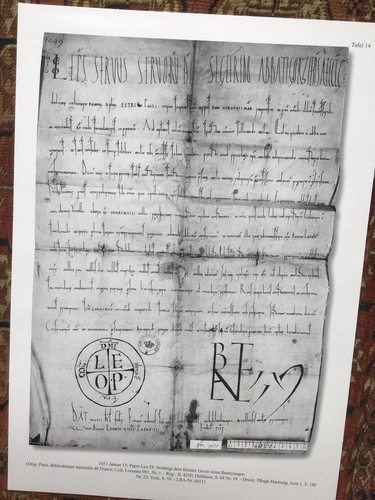
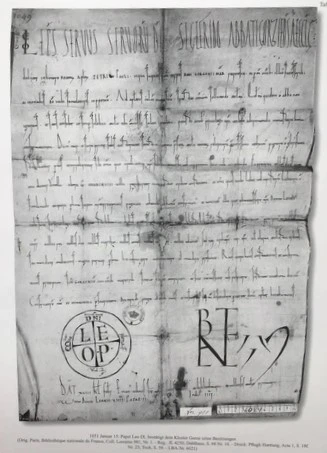
update
update papst urkunden bilder
added text container

diff --git a/familiengeschichte.html b/familiengeschichte.html
@@ -95,6 +95,8 @@
           <div>
             <h2>Familiengeschichte: Paeskens - Peuskens - Peusquens</h2>
 
+            <div class="textContainer"></div>
+
             <div class="linkContainer">
               <a
                 href="./data/familiengeschichte/1-Familiengeschichte/Familiengeschichte Paeskens 1500-1600.pdf"
@@ -120,6 +122,8 @@
         <div class="sectionContainer">
           <div>
             <h2>FML Hubert von Peusquens</h2>
+
+            <div class="textContainer"></div>
 
             <div class="linkContainer">
               <a
@@ -168,6 +172,8 @@
           <div>
             <h2>Genealogie Familienblaetter</h2>
 
+            <div class="textContainer"></div>
+
             <div class="linkContainer">
               <a
                 href="./data/familiengeschichte/3-Genealogie-Familientafel/a Genealogie Peuskens Peusquens  Familienblätter PK PQ.pdf"
@@ -189,6 +195,12 @@
                 target="_blank"
                 >Berichtigungen und Erganzungen</a
               >
+              <a href="./familientafel/poeschkens.html" target="_blank"
+                >Familientafel Poeschkens</a
+              >
+              <a href="./familientafel/peusquens.html" target="_blank"
+                >Familientafel Peusquens</a
+              >
             </div>
           </div>
         </div>
@@ -198,6 +210,8 @@
         <div class="sectionContainer">
           <div>
             <h2>Ursprungsort der Familie - Heerlen Niederlande</h2>
+
+            <div class="textContainer"></div>
 
             <div class="linkContainer">
               <a
@@ -235,6 +249,8 @@
         <div class="sectionContainer">
           <div>
             <h2>Schallenberg Köln Peusquens Düsseldorf</h2>
+
+            <div class="textContainer"></div>
 
             <div class="linkContainer">
               <a

diff --git a/stylesheets/familiengeschichte.css b/stylesheets/familiengeschichte.css
@@ -64,7 +64,16 @@ section img {
 }
 
 /* BUTTONS */
+.textContainer {
+  /* background-color: black; */
 
+  width: 100%;
+  height: 100%;
+
+  margin-bottom: 25px;
+}
+
+/* BUTTONS */
 .linkContainer {
   margin: 0;
   margin-top: auto;

diff --git a/stylesheets/tafel.css b/stylesheets/tafel.css
@@ -30,6 +30,7 @@ main {
   border-radius: 10px;
   border: solid rgba(255, 255, 255, 0.4) 1px;
   overflow: hidden;
+  background-color: white;
 
   transform-origin: center;
   transition: transform 0.3s ease;
